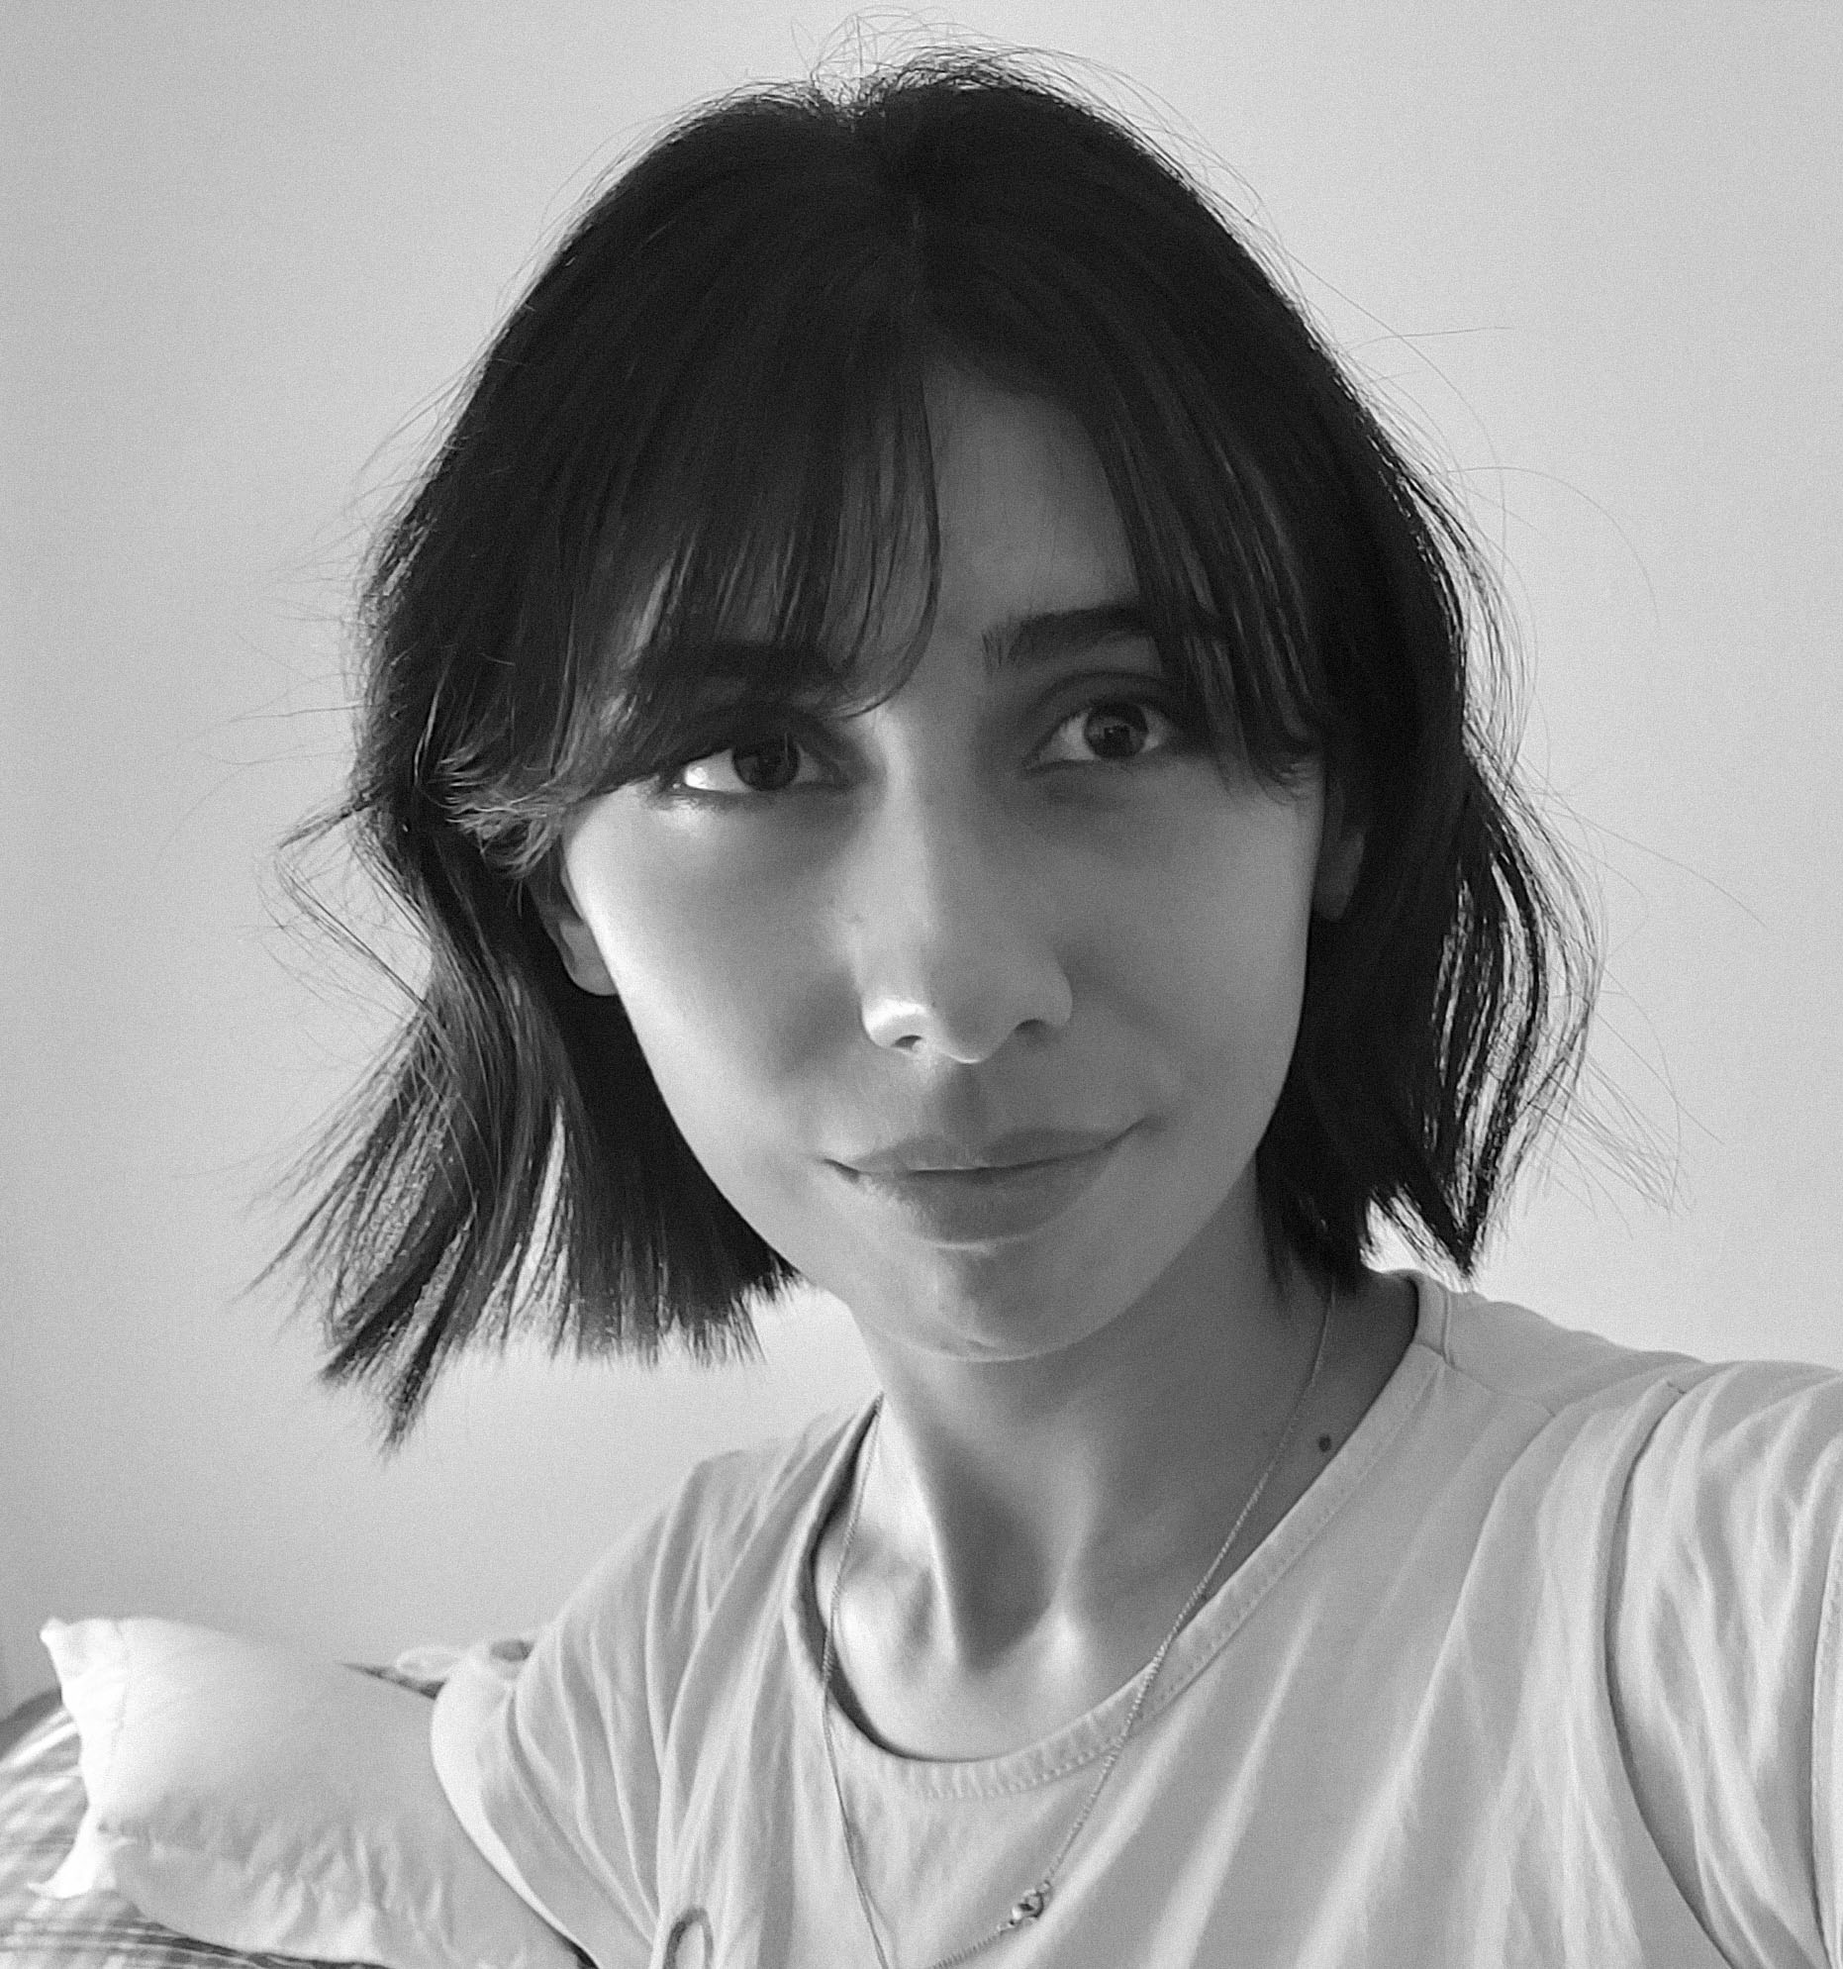
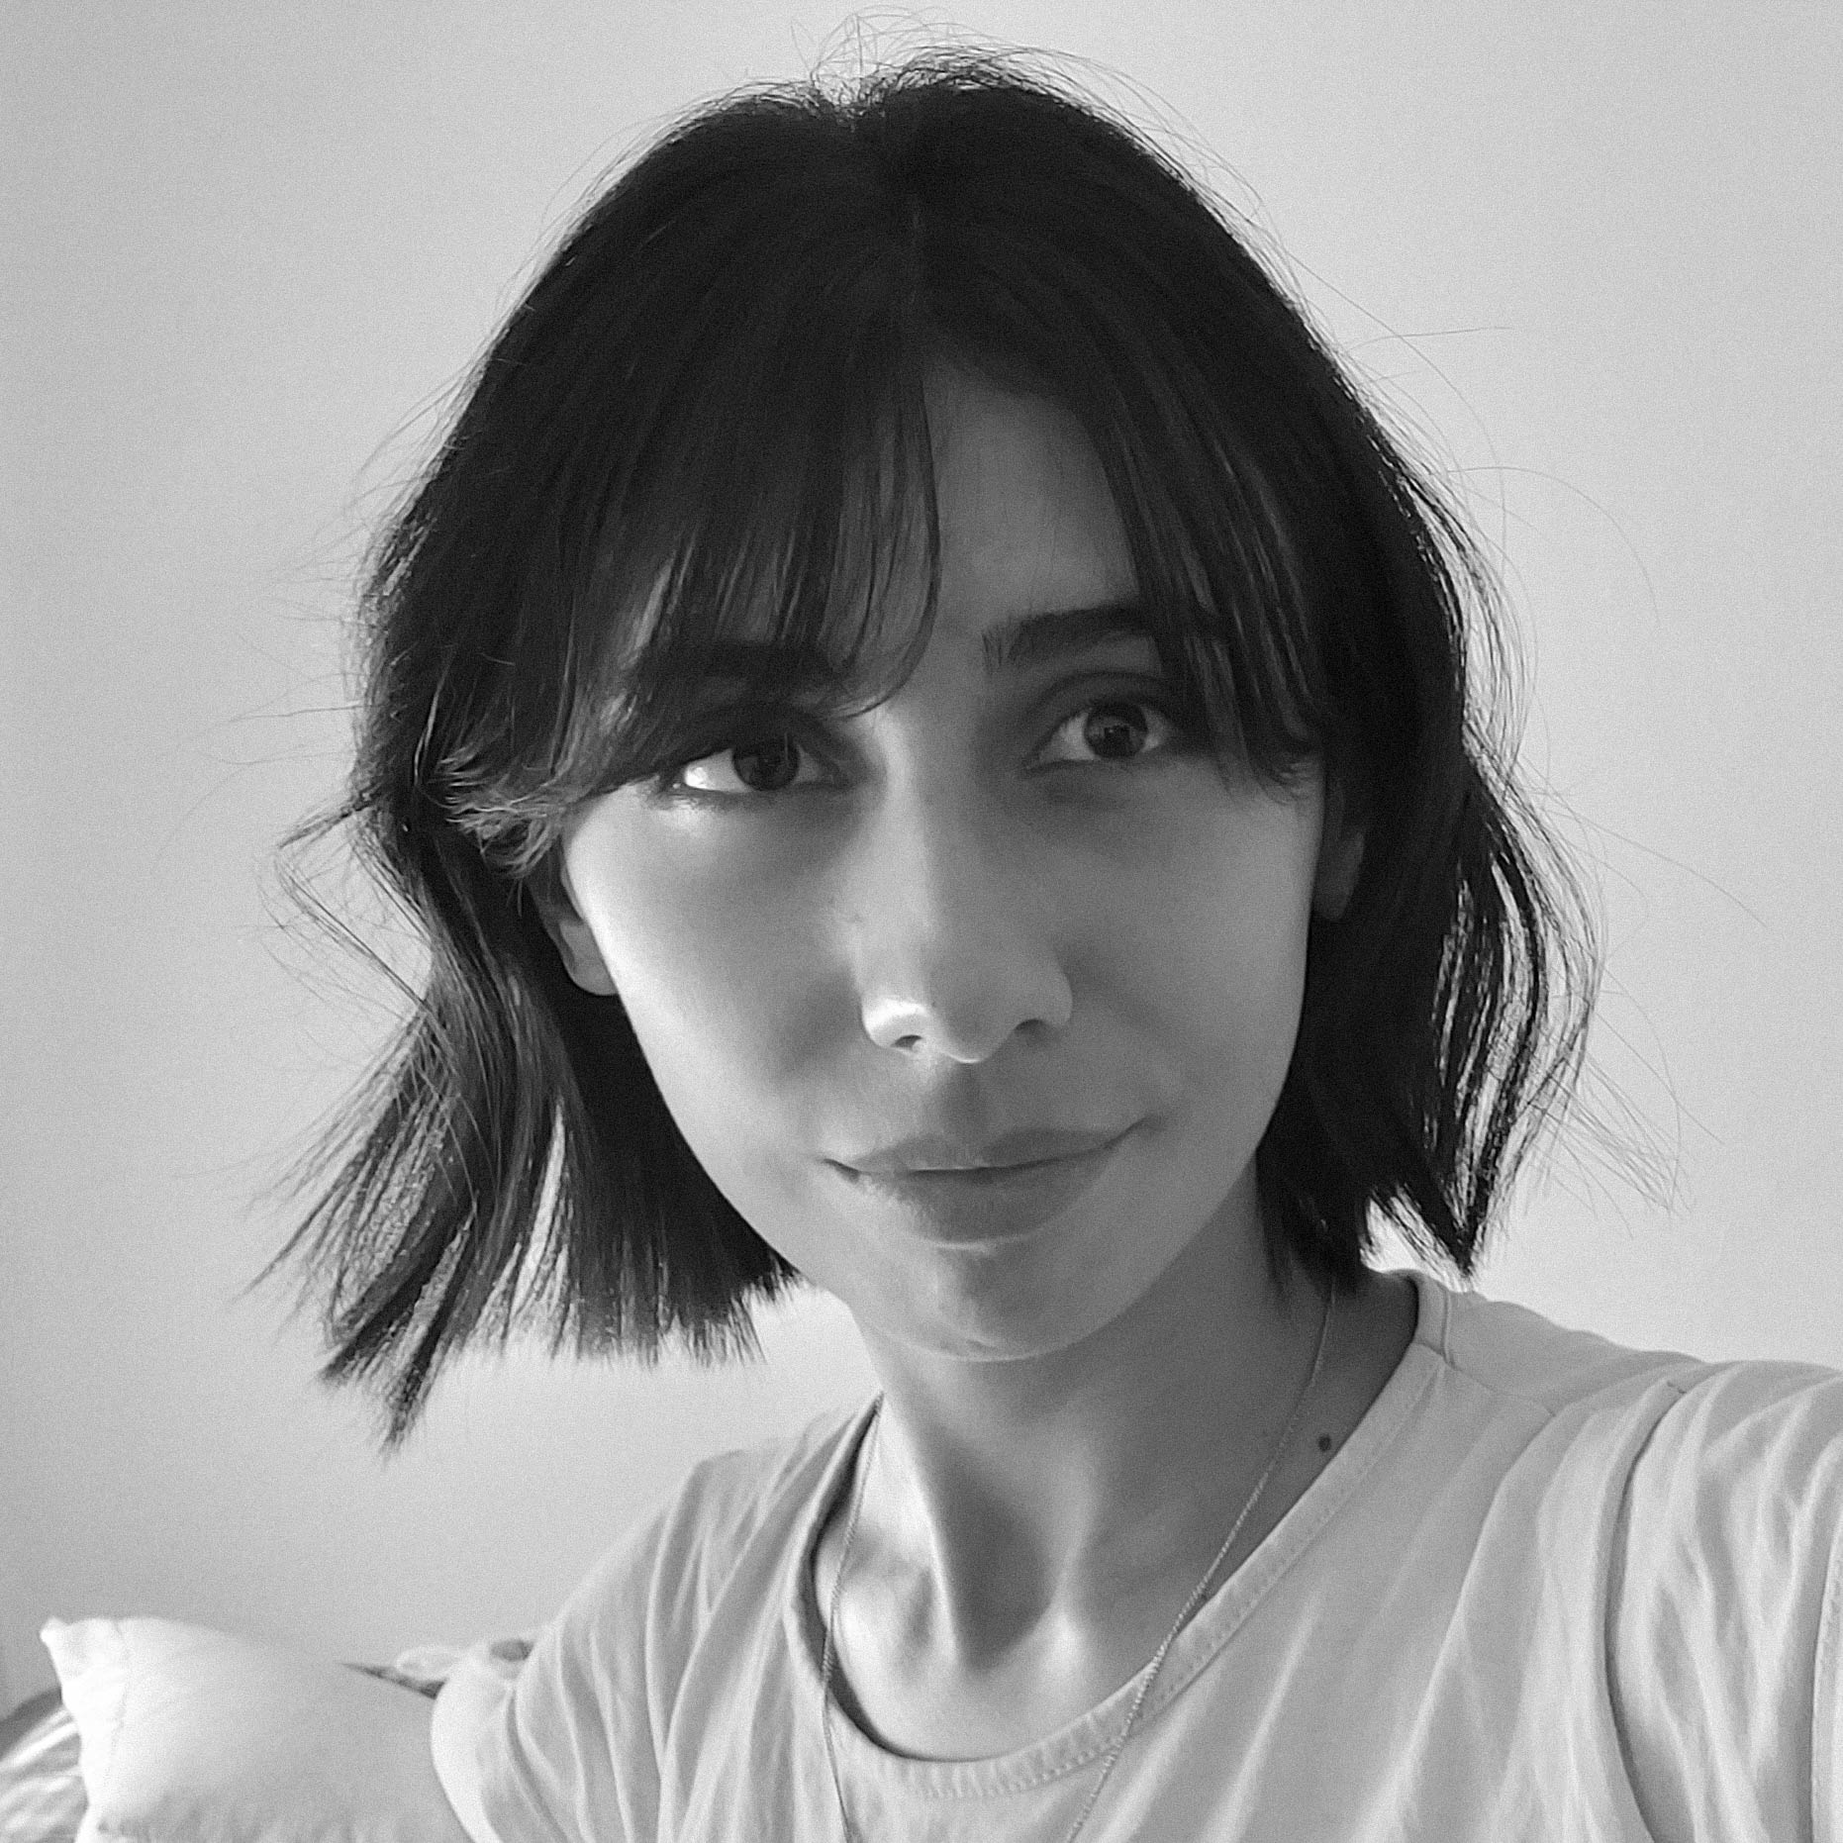
correcciones

Changed region(s): [[0.0, 0.0, 1.0, 1.0], [0.3115, 0.0623, 0.3738, 0.1246], [0.5295, 0.1869, 0.5607, 0.218]]

diff --git a/estilos.css b/estilos.css
@@ -10,8 +10,6 @@ body {
     background-color: black;
     color: white;
     font-family: "Funnel Display", sans-serif;
-    height: 100vh;
-    display: flex;
     flex-direction: column;
     justify-content: space-between;
 }
@@ -26,7 +24,6 @@ header {
 nav ul {
     display: flex;
     gap: 32px;
-    list-style: none;
 }
 
 nav a {
@@ -47,21 +44,22 @@ nav a:hover {
 .hero {
     background:#ffafcc;
     text-align: center;
-    padding: 272px;
+    height: 70vh;
     font-family: "Funnel Display", sans-serif;
     font-size: 230px;
     color: black;
+    padding-top: 100px;
 }
 
 .hero h1 {
     font-weight: 450;
+    margin-top: 100px;
 }
 
 .hero p{
     font-size: 64px;
-    margin-top: -64px;
+    margin-top: -40px;
     font-family: "Funnel Display", sans-serif;
-    text-align: end;
 }
 
 /*------------------SECCION NEGRA------------------*/
@@ -75,7 +73,6 @@ nav a:hover {
 
 .contenedor {
     display: flex;
-    align-items: flex-start;
     gap: 608px;
     flex-wrap: wrap;
 
@@ -93,24 +90,23 @@ nav a:hover {
 
 .texto {
     max-width: 900px;
-    
+    margin-bottom: 80px;   
 } 
 
 .texto h3 {
     font-size: 40px;
     font-weight: 400;
-    margin-bottom: 16px;
     text-align: left;
     margin-left: 50px;
     color: #ffafcc;
+    line-height: 90px;
 }
 
 .texto p {
-    line-height: 28px;
+    line-height: 30px;
     text-align: left;
-    font-family: "popins", sans-serif;
+    font-family: "Popins", sans-serif;
     font-size: 18px;
-    margin-bottom: 20px;
     margin-left: 100px;
 }
 
@@ -118,7 +114,6 @@ nav a:hover {
 .datos {
     border-top: 20px solid #ffafcc;
     background-color: white;
-    font-family: "popins", sans-serif;
     color: black;
     display: flex;
     justify-content: center;
@@ -137,27 +132,22 @@ nav a:hover {
 }
 
 .lista li img {
-    display: inline-block;
     vertical-align: middle;
-    text-decoration: none;
     margin-right: 16px;
 }
 
 .columna h4 {
-    font-family: "Funnel Display", sans-serif;
     font-size: 21px;
 }
 
 .texto-servicios {
-    font-family: "popins", sans-serif;
+    font-family: "Popins", sans-serif;
     color: black;
     line-height: 27px;
-    text-align: left;
     margin: 48px;
-    font-size: 16px;
     padding-top: 5rem;
-    border-top: 1px solid black;
-    max-width: 50%;
+    border-top: 2px solid black;
+    max-width: 80vh;
 }
 
 .servicios {
@@ -171,9 +161,7 @@ nav a:hover {
 
 .contacto {
     padding: 32px;
-    background-color: black;
-    text-align: center;
-    border-top: 1px solid white
+    border-top: 10px solid #ffafcc;
 }
 
 .contacto h2 {

diff --git a/index.html b/index.html
@@ -11,23 +11,21 @@
     <body>
         <header>
             <nav>
-                <ul>
-                    <li><a href="#sobre-mi">Sobre mi</a></li>
-                    <li><a href="#contactar">Contacto</a></li>
-                </ul>
+                <a href="#sobre-mi">Sobre mi</a>
+                <a href="#contactar">Contacto</a>
             </nav>
         </header>
 
-    <section class="hero">
-        <h1>— Hola!</h1>
-        <p>Soy Lourdes...</p>
-    </section>
-
     <main>
+        <section class="hero">
+            <h1>— Hola!</h1>
+            <p>Soy Lourdes...</p>
+        </section>
+
         <section id="sobre-mi" class="intro">
             <h2>— Diseñadora Gráfica</h2>
             <div class="contenedor">
-                <img class="sombra-img" src="img/lourdesbelen.jpg" alt="Foto de Lourdes"/> 
+                <img class="sombra-img" src="img/lourdesbelen.jpg" alt="Foto de Lourdes" width="220" height="220"/> 
                 <div class="texto">
                     <h3>— Un poco sobre mi</h3>
                     <p>
@@ -74,11 +72,10 @@
             <div class="columna">
                 <h4>HISTORIA ACADÉMICA</h4>
                 <ul class="lista">
-                    <li>2015-2020: Bachiller con orientación en Economía - EES N°5</li>
-                    <li>2021-Actualidad: Lic. en Diseño y Comunicación Visual - UNLa</li>
-                    <h4>IDIOMAS</h4>
-                    <li>Español: Nativo</li>
-                    <li>Inglés: Básico</li>
+                    <li>2015-2020</li>
+                    <li>Bachiller con orientación en Economía - EES N°5</li>
+                    <li>2021-Actualidad</li>
+                    <li>Lic. en Diseño y Comunicación Visual - UNLa</li>
                 </ul>
             </div> 
         </section> 
@@ -100,4 +97,5 @@
         </div>
     </footer>
     </body>
+
 </html>
